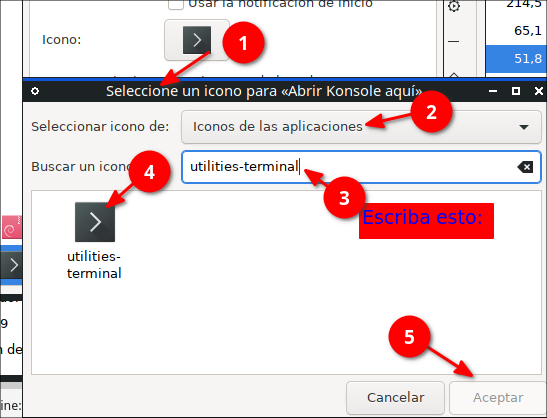
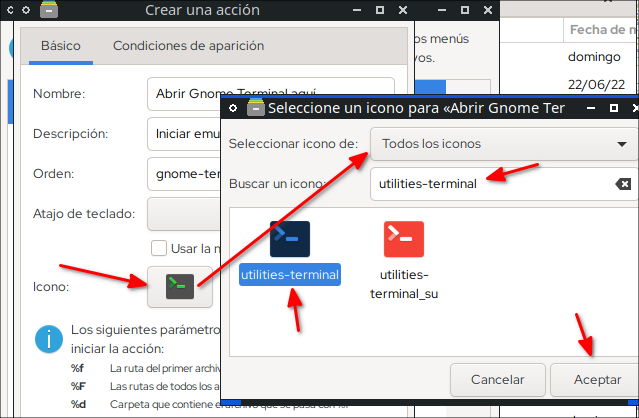
Guardar automáticamente el commit P1 mar 19 jul 2022 09:16:47 -05

diff --git a/README.md b/README.md
@@ -236,7 +236,16 @@ Nombre: Abrir Konsole aquí
 Descripción: Iniciar emulador de consola aquí  
 Orden: konsole --workdir %f  
   
-En icono pongale un icono de terminal:
+En icono pongale un icono de terminal, de clic en el botón
+
+Icono:
+
+luego clic en y ponga:
+
+Seleccionar icono de: Todos los iconos
+Buscar un icono: utilities-terminal
+
+y aceptar
 
 ![](./img/196002%20pongale%20un%20icono%20de%20terminal.png)
 
